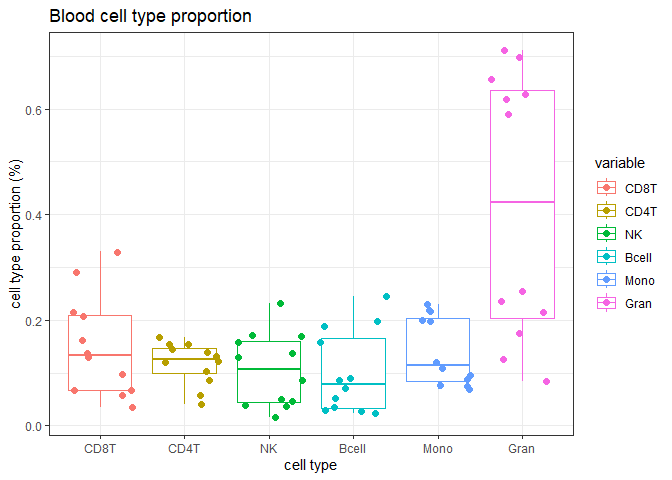
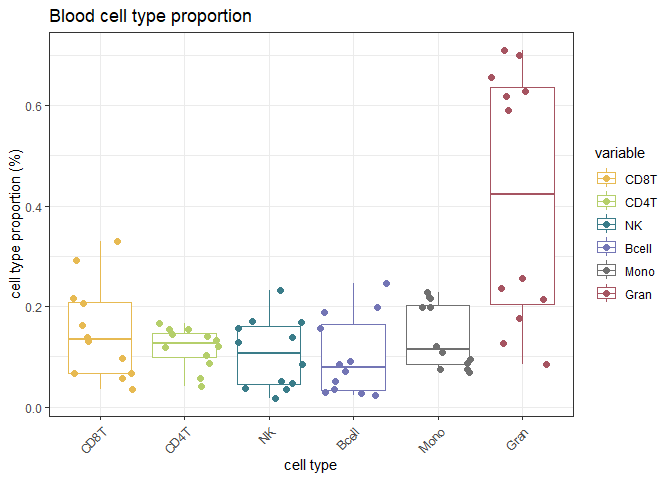
Updated ReadMe

diff --git a/README.md b/README.md
@@ -171,13 +171,13 @@ head(out$RF)
 #> 201868590267_R05C01 0.12980382 0.15364182 0.03794995 0.02618161 0.09471185
 #> 201869680008_R01C01 0.29098662 0.14490082 0.17136579 0.08515400 0.21821297
 #> 201869680008_R03C01 0.09642377 0.13975148 0.04651692 0.03460012 0.08708938
-#>                          Gran     CETYGO nCGmissing
-#> 201868590193_R01C01 0.2138328 0.05366570          0
-#> 201868590243_R02C01 0.6566618 0.03948246          0
-#> 201868590267_R01C01 0.6989066 0.03682644          0
-#> 201868590267_R05C01 0.5894684 0.04166677          0
-#> 201869680008_R01C01 0.1258030 0.04975795          0
-#> 201869680008_R03C01 0.6286077 0.04023896          0
+#>                          Gran     CETYGO
+#> 201868590193_R01C01 0.2138328 0.05366570
+#> 201868590243_R02C01 0.6566618 0.03948246
+#> 201868590267_R01C01 0.6989066 0.03682644
+#> 201868590267_R05C01 0.5894684 0.04166677
+#> 201869680008_R01C01 0.1258030 0.04975795
+#> 201869680008_R03C01 0.6286077 0.04023896
 
 # Basic visualization of deconvolution output
 library(ggplot2)
@@ -193,7 +193,31 @@ ggplot(plt, aes(variable, value, color = variable)) +
     theme_bw() + 
     labs(x = "cell type", 
          y = "cell type proportion (%)", 
-         title = "Blood cell type proportion") 
+         title = "Blood cell type proportion") +
+    scale_color_manual(values = c(Bcell_cord = "#9C9EDEFF", 
+                                  Bnv = "#7375B5FF", 
+                                  Bmem = "#4A5584FF", 
+                                  Bcell = "#7375B5FF",
+                                  CD4T_cord = "#CEDB9CFF", 
+                                  CD4nv = "#B5CF6BFF", 
+                                  CD4mem = "#637939FF", 
+                                  Treg = "#8CA252FF", 
+                                  CD4T = "#B5CF6BFF",
+                                  CD8T_cord = "#E7CB94FF", 
+                                  CD8nv = "#E7BA52FF", 
+                                  CD8mem = "#8C6D31FF", 
+                                  CD8T = "#E7BA52FF",
+                                  NK_cord = "#7BBCB0FF", 
+                                  NK = "#3A7C89FF", 
+                                  Mono_cord = "#F3CBD3FF", 
+                                  Mono = "#707070",
+                                  Gran_cord = "#D39C83FF", 
+                                  Gran = "#A65461FF", 
+                                  Neu = "#A65461FF", 
+                                  Bas = "#7B4173FF",
+                                  Eos = "#A55194FF", 
+                                  nRBC = "#843C39FF")) +
+    theme(axis.text.x = element_text(angle = 45, vjust = 0.9, hjust = 1))
 ```
 
 <img src="man/figures/README-visualization-1.png" width="100%" />
